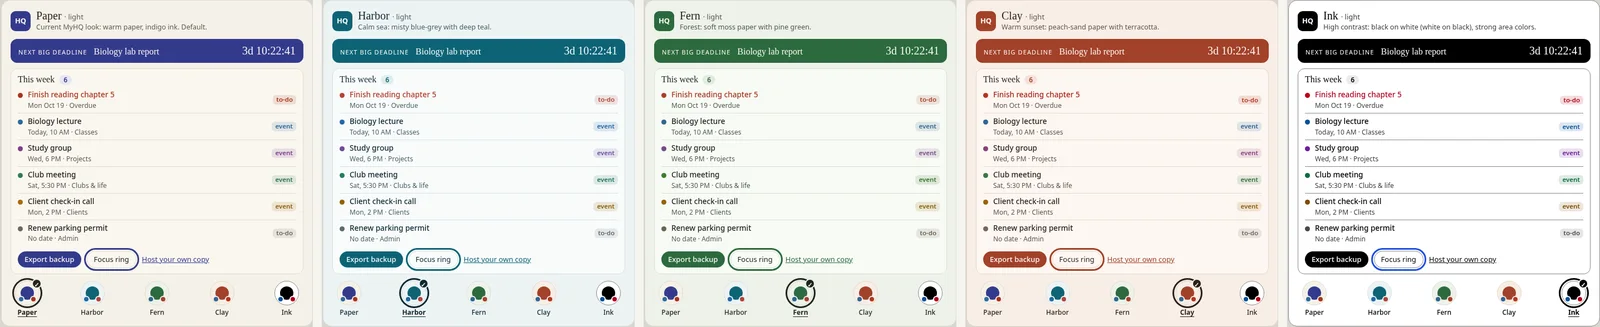
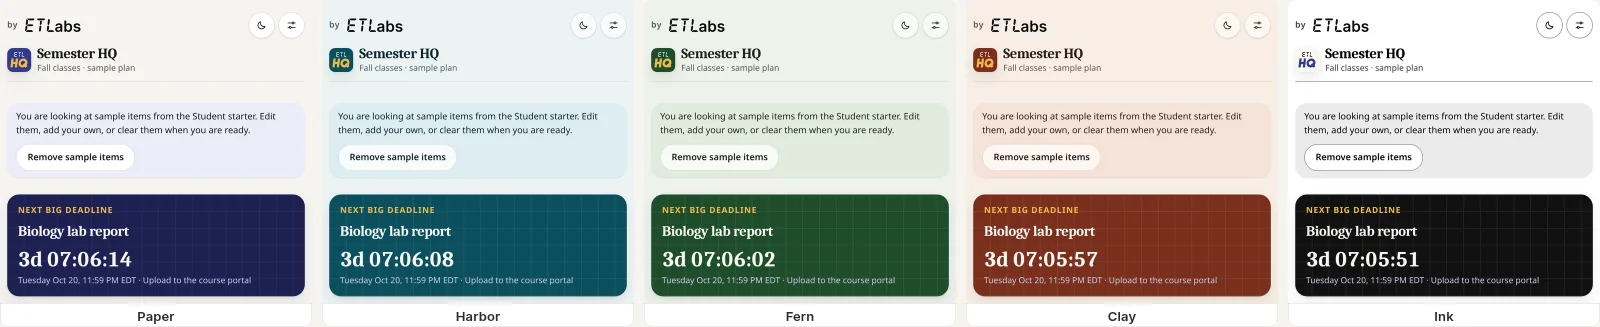
/myhq color-schemes strip re-shot from local app-templates v0.3.0-combined-5 (Student, reduced motion, list layout, light): all five schemes framed on header + deadline so each shows the ETL badge in its scheme colors, composed at 1600x327 with the scheme names; Example data pill moved off the scree

diff --git a/assets/css/myhq-stamp.css b/assets/css/myhq-stamp.css
@@ -37,3 +37,8 @@
 /* Home + /products: keep "ETLabs MyHQ" on one line at narrow widths (icon + name), no sideways scroll. */
 .myhq-card-title .section-title{white-space:nowrap}
 @media(max-width:720px){.portfolio-copy .myhq-card-title .section-title{font-size:min(2.2rem,8.2vw)}}
+/* /myhq layout + color-scheme figures: same fix as the phone shot. The Example data pill sat on each screenshot's
+   header (ETL badge / "by ETLabs"); it now sits in its own strip under the image, above any caption. */
+.myhq-page .myhq-shot{display:flex;flex-direction:column}
+.myhq-page .myhq-shot>.myhq-example{position:static;order:2;align-self:flex-start;margin:10px 12px}
+.myhq-page .myhq-shot>figcaption{order:3}
